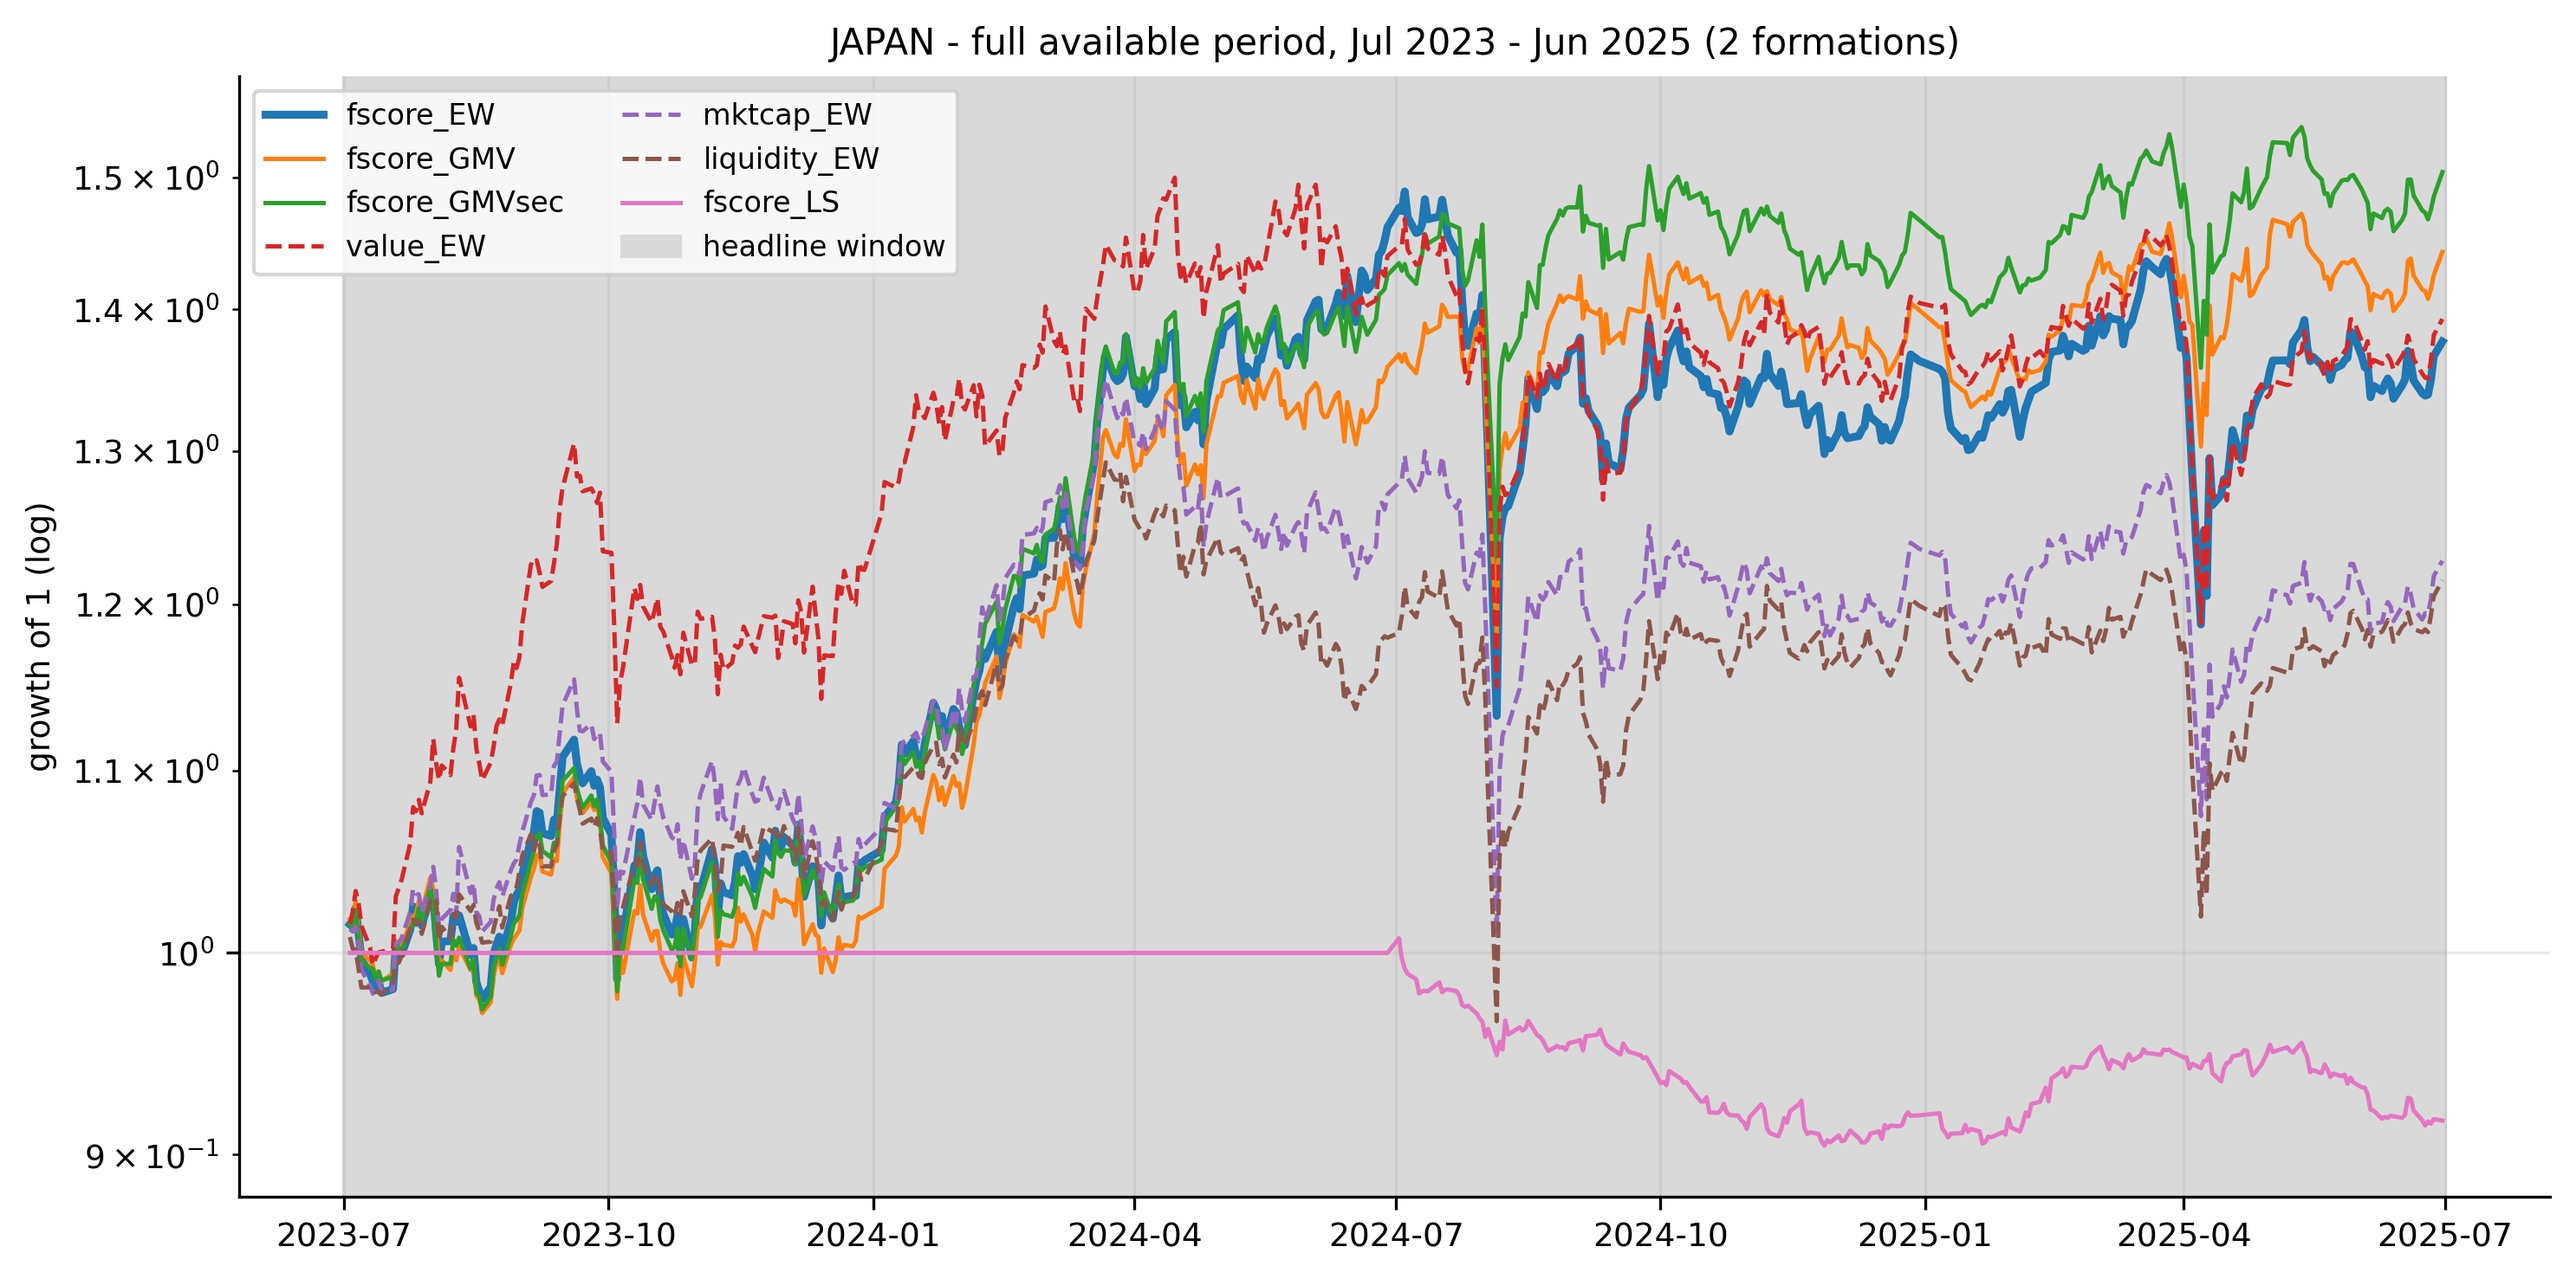
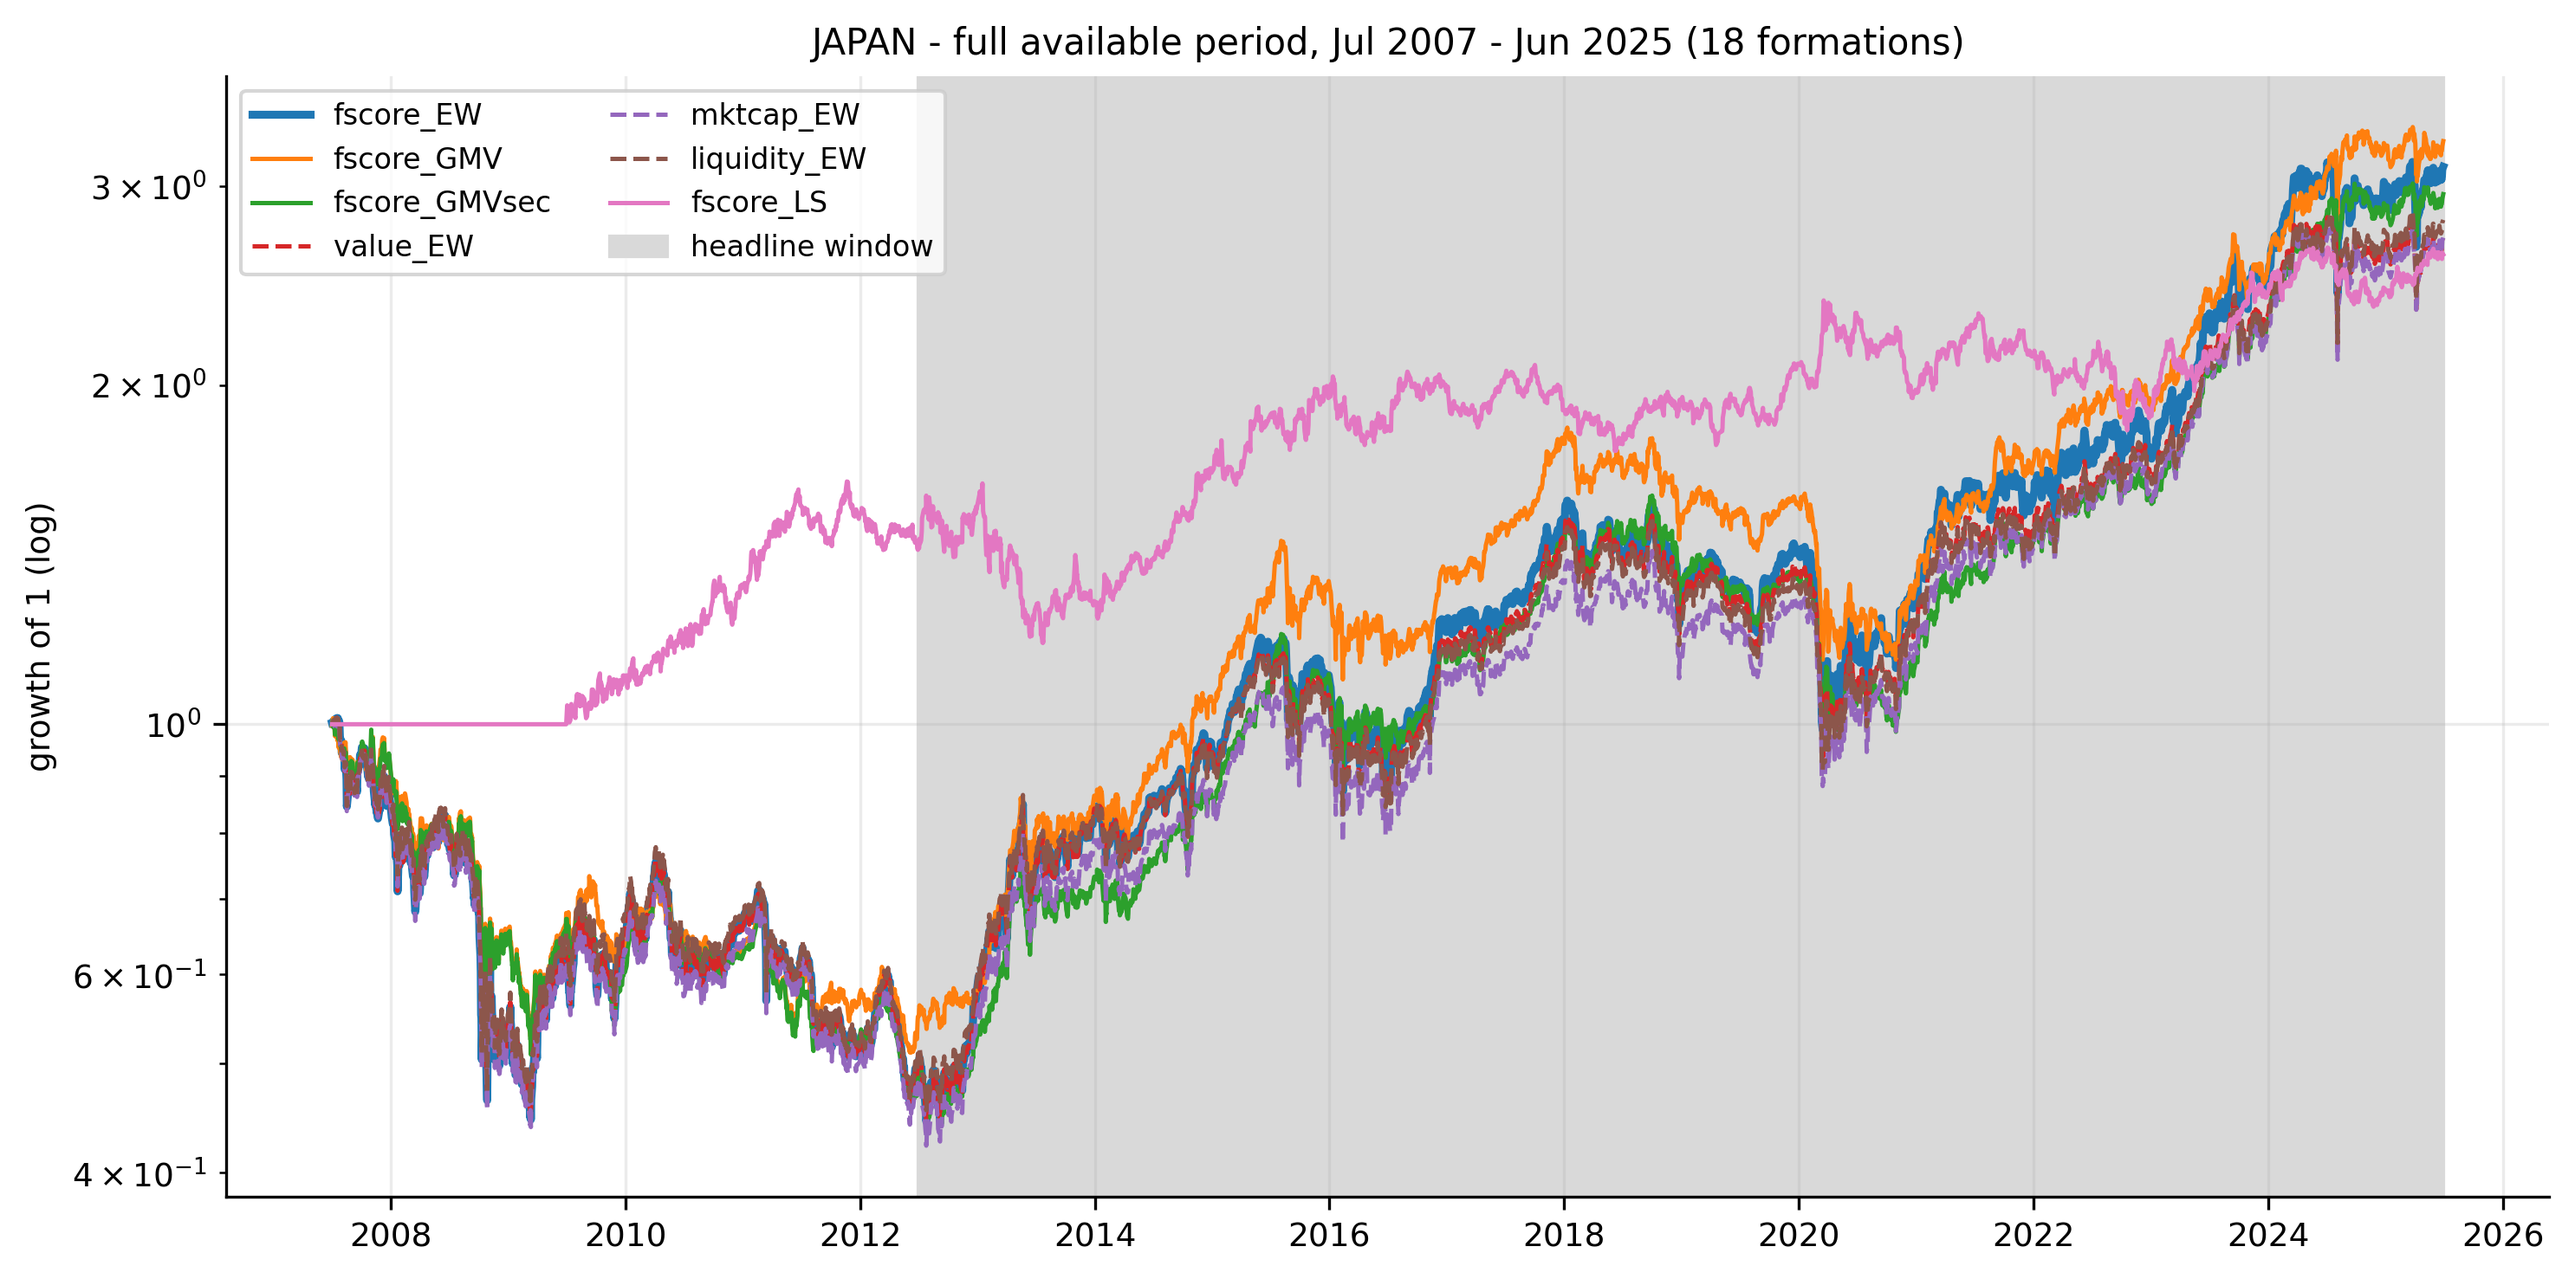
Point the full-period check at the source each market's study actually reads
`full_period.py` loaded Japan through `load_cached`, which still returns the
old Yahoo cache. The check therefore reported a two-formation span for a study
that runs thirteen — a robustness result for a study nobody ran. It now selects
the loader per market: the Bloomberg frame for Japan, `load_cached` for the US
and Vietnam, whose caches are what their notebooks read.

Japan's fundamentals are rebuilt over 2005-2024 rather than only the headline
window, so the probe measures the span the vendor's sheets actually support
instead of the span this script happened to load. `constituents` now skips a
year with no worksheet rather than raising, since a probe legitimately asks
about years beyond the workbook.

**Japan's full span is 2007-2024 - eighteen formations, not two**, and the
result is the most informative row in the table. Extending back through the
global financial crisis more than halves the absolute Sharpe (0.758 -> 0.295)
while the placement against random baskets barely moves (96.8th -> 96.1st
percentile, p = 0.032 -> 0.039). Both hold at once only if the whole universe
suffered together: the basket's absolute return was destroyed, its relative
standing was not. That is a stronger statement than the thirteen-year result,
and exactly what a common window chosen for cross-country comparability hides.
2004-2006 are excluded because the high-B/M subset falls to 25/27/26 names
against a 30-name basket; the reason is recorded per year in the feasibility
[…]

diff --git a/scripts/full_period.py b/scripts/full_period.py
@@ -65,7 +65,10 @@ EVAL_END = pd.Timestamp("2025-06-30")
 MARKETS = {
     "us":    dict(lag_months=1, membership=True,
                   bench={"SPY (S&P 500)": "SPY", "VTV (US value ETF)": "VTV"}),
-    "japan": dict(lag_months=3, membership=False,
+    # Japan reads the Bloomberg frame, not the Yahoo cache `load_cached` would
+    # give it: the study moved sources and this check has to move with it, or
+    # it reports a robustness result for a study nobody ran.
+    "japan": dict(lag_months=3, membership="bbg",
                   bench={"1306.T (TOPIX ETF, JPY)": "1306.T"}),
     # Vietnam's cache is built by scripts/build_vietnam_data.py. Its lag is 6
     # months rather than 3: report_date is the 31 December fiscal year end and
@@ -73,7 +76,36 @@ MARKETS = {
     "vietnam": dict(lag_months=6, membership=False,
                     bench={"VN30 (VN30 index, VND)": "VN30"}),
 }
-PROBE_FROM, PROBE_TO = 2005, 2027
+PROBE_FROM, PROBE_TO = 2003, 2027
+
+
+def load_market(market: str):
+    """(fundamentals, prices, sectors, membership) from the source this
+    market's main study reads.
+
+    `load_cached` is right for the US and Vietnam, whose caches are what their
+    notebooks load. It is wrong for Japan, which now scores from the Bloomberg
+    statements: pointing this check at the stale Yahoo cache would silently
+    report a two-formation span for a study that runs thirteen.
+    """
+    data = ROOT / "data"
+    if market == "japan":
+        from fscore.data.bbg_processed import constituents
+        fund = pd.read_csv(data / "japan_bbg_fundamentals.csv",
+                           parse_dates=["report_date"])
+        prices = pd.read_csv(data / "japan_prices.csv.gz", parse_dates=["date"])
+        sectors = pd.read_csv(data / "japan_sectors.csv").set_index("ticker")["sector"]
+        # Membership is needed for every year the probe might reach, not just
+        # the headline window, or the early formations look empty.
+        members = constituents(market, data, range(PROBE_FROM, PROBE_TO))
+        return fund, prices, sectors, members
+
+    fund, prices, sectors, _bench = load_cached(market, ROOT / "data")
+    members = None
+    if MARKETS[market]["membership"] is True:
+        from fscore.data.edgar import load_membership
+        members = load_membership(ROOT / "data")
+    return fund, prices, sectors, members
 
 
 def feasible_years(market: str, fund, prices, membership, lag_months: int,
@@ -141,11 +173,7 @@ def headline_placement(market: str) -> pd.DataFrame | None:
 
 
 def run_market(market: str, cfg: dict) -> dict | None:
-    fund, prices, sectors, bench = load_cached(market, ROOT / "data")
-    membership = None
-    if cfg["membership"]:
-        from fscore.data.edgar import load_membership
-        membership = load_membership(ROOT / "data")
+    fund, prices, sectors, membership = load_market(market)
 
     years, probe = feasible_years(market, fund, prices, membership,
                                   cfg["lag_months"])

diff --git a/src/fscore/data/bbg_processed.py b/src/fscore/data/bbg_processed.py
@@ -139,10 +139,20 @@ def load_fundamentals(market: str, data_dir: pathlib.Path,
 def constituents(market: str, data_dir: pathlib.Path,
                  years: list[int] | range) -> dict[int, set[str]]:
     """Index membership as of each formation year, from the financials sheets
-    themselves (the `historical_constituents/` files repeat the same list)."""
+    themselves (the `historical_constituents/` files repeat the same list).
+
+    A year with no sheet is omitted rather than raised on: callers that probe
+    for the widest feasible span legitimately ask about years beyond the
+    workbook, and a missing year is an answer ("no membership known"), not an
+    error. Requesting a specific year and getting nothing back is still
+    visible — the key is simply absent.
+    """
     out = {}
     for year in years:
-        d = _sheet(data_dir, market, "t", year)
+        try:
+            d = _sheet(data_dir, market, "t", year)
+        except ValueError:                     # no worksheet for that year
+            continue
         out[year] = {t for t in (to_yahoo(b, market) for b in d.BBG_Ticker)
                      if t is not None}
     return out

diff --git a/scripts/build_japan_bbg.py b/scripts/build_japan_bbg.py
@@ -39,8 +39,16 @@ from fscore.data.bbg_processed import (constituents,  # noqa: E402
 
 DATA = ROOT / "data"
 RESULTS = ROOT / "results"
-YEARS = list(range(2012, 2025))
 MARKET = "japan"
+
+# The headline study forms 2012-2024, but the vendor's sheets start at 2000 and
+# the within-country robustness check asks how far back the data really goes.
+# Building the wider frame costs seconds and lets `full_period.py` measure that
+# span instead of being capped by whatever this script happened to load; the
+# headline run simply ignores the extra years.
+BUILD_YEARS = list(range(2005, 2025))
+HEADLINE_YEARS = list(range(2012, 2025))
+YEARS = BUILD_YEARS
 
 
 def year_end_price(prices: pd.DataFrame, fiscal_year: int) -> pd.Series:

diff --git a/README.md b/README.md
@@ -325,6 +325,33 @@ figures: one extra formation year moves the main-study p-value from 0.085 to
 capital indices while the portfolios are total-return. `REVIEW_FINDINGS.md`
 lists both, and the rest.
 
+### Within-country robustness: each market over its own full span
+
+`scripts/full_period.py` re-runs each market over the widest span its data
+supports, holding lag, membership, seed, covariance window and Monte Carlo
+draws identical so the window is the only thing that differs. The evaluation
+end stays fixed at June 2025.
+
+| market | headline | full span | F-Score EW Sharpe | percentile |
+|---|---|---|---|---|
+| US | 2012–2024 (13) | 2010–2024 (15) | 0.811 → 0.849 | 47.3% → 43.1% |
+| Japan | 2012–2024 (13) | **2007–2024 (18)** | 0.758 → **0.295** | 96.8% → **96.1%** |
+| Vietnam | 2012–2024 (13) | 2011–2024 (14) | 0.438 → 0.446 | 91.5% → 95.8% |
+
+Japan's row is the informative one. Extending back through the global
+financial crisis **more than halves the absolute Sharpe** (0.758 → 0.295) while
+the placement against random baskets barely moves (96.8th → 96.1st percentile,
+p = 0.032 → 0.039). The whole universe suffered together: the basket's
+*relative* standing survives a crisis that destroyed its absolute return. That
+is a stronger statement than the thirteen-year result, and it is the kind of
+thing a common window chosen for cross-country comparability hides.
+
+The US moves the other way and more quietly: 2010 and 2011 were good years in
+absolute terms and better ones for the random baskets, so all three Sharpe
+ratios rise while all three percentiles fall — sector-GMV's p-value goes from
+0.0033 to 0.020. A six-fold move from two extra years says a meaningful part
+of that headline p-value came from where the window was cut.
+
 ### Measurement sensitivity
 
 `scripts/eq_offer_sensitivity.py` scores the US sample under both
